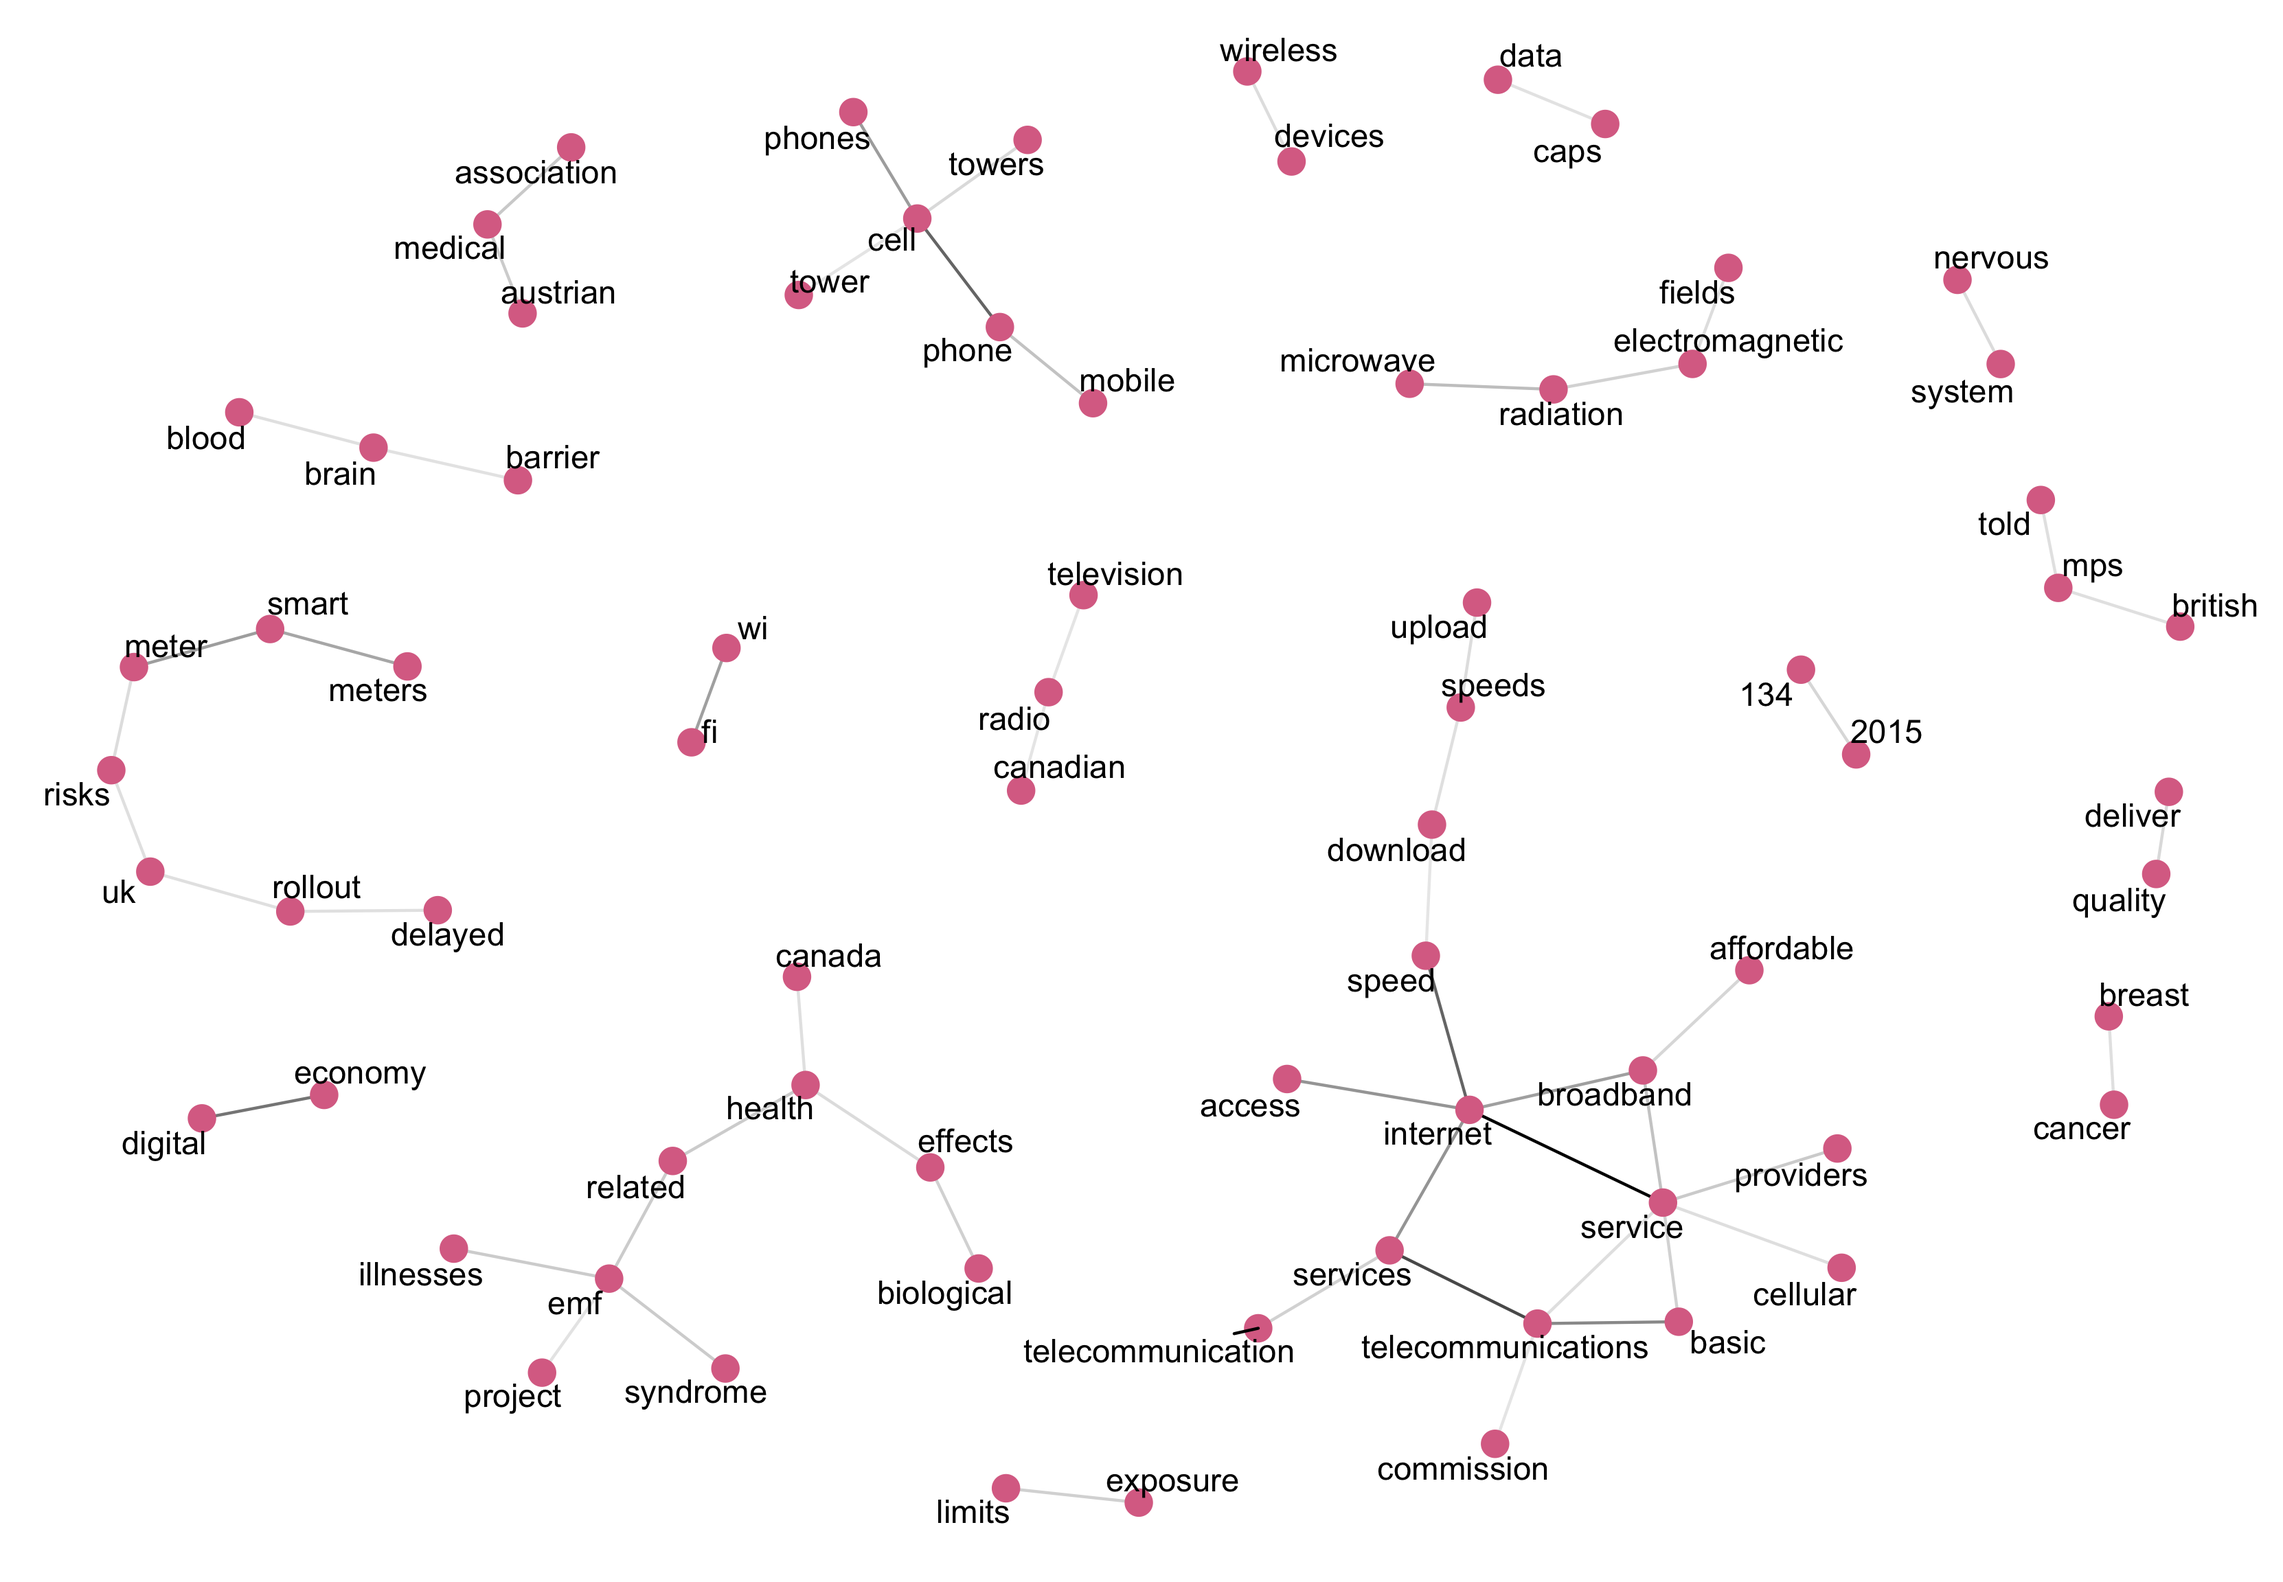
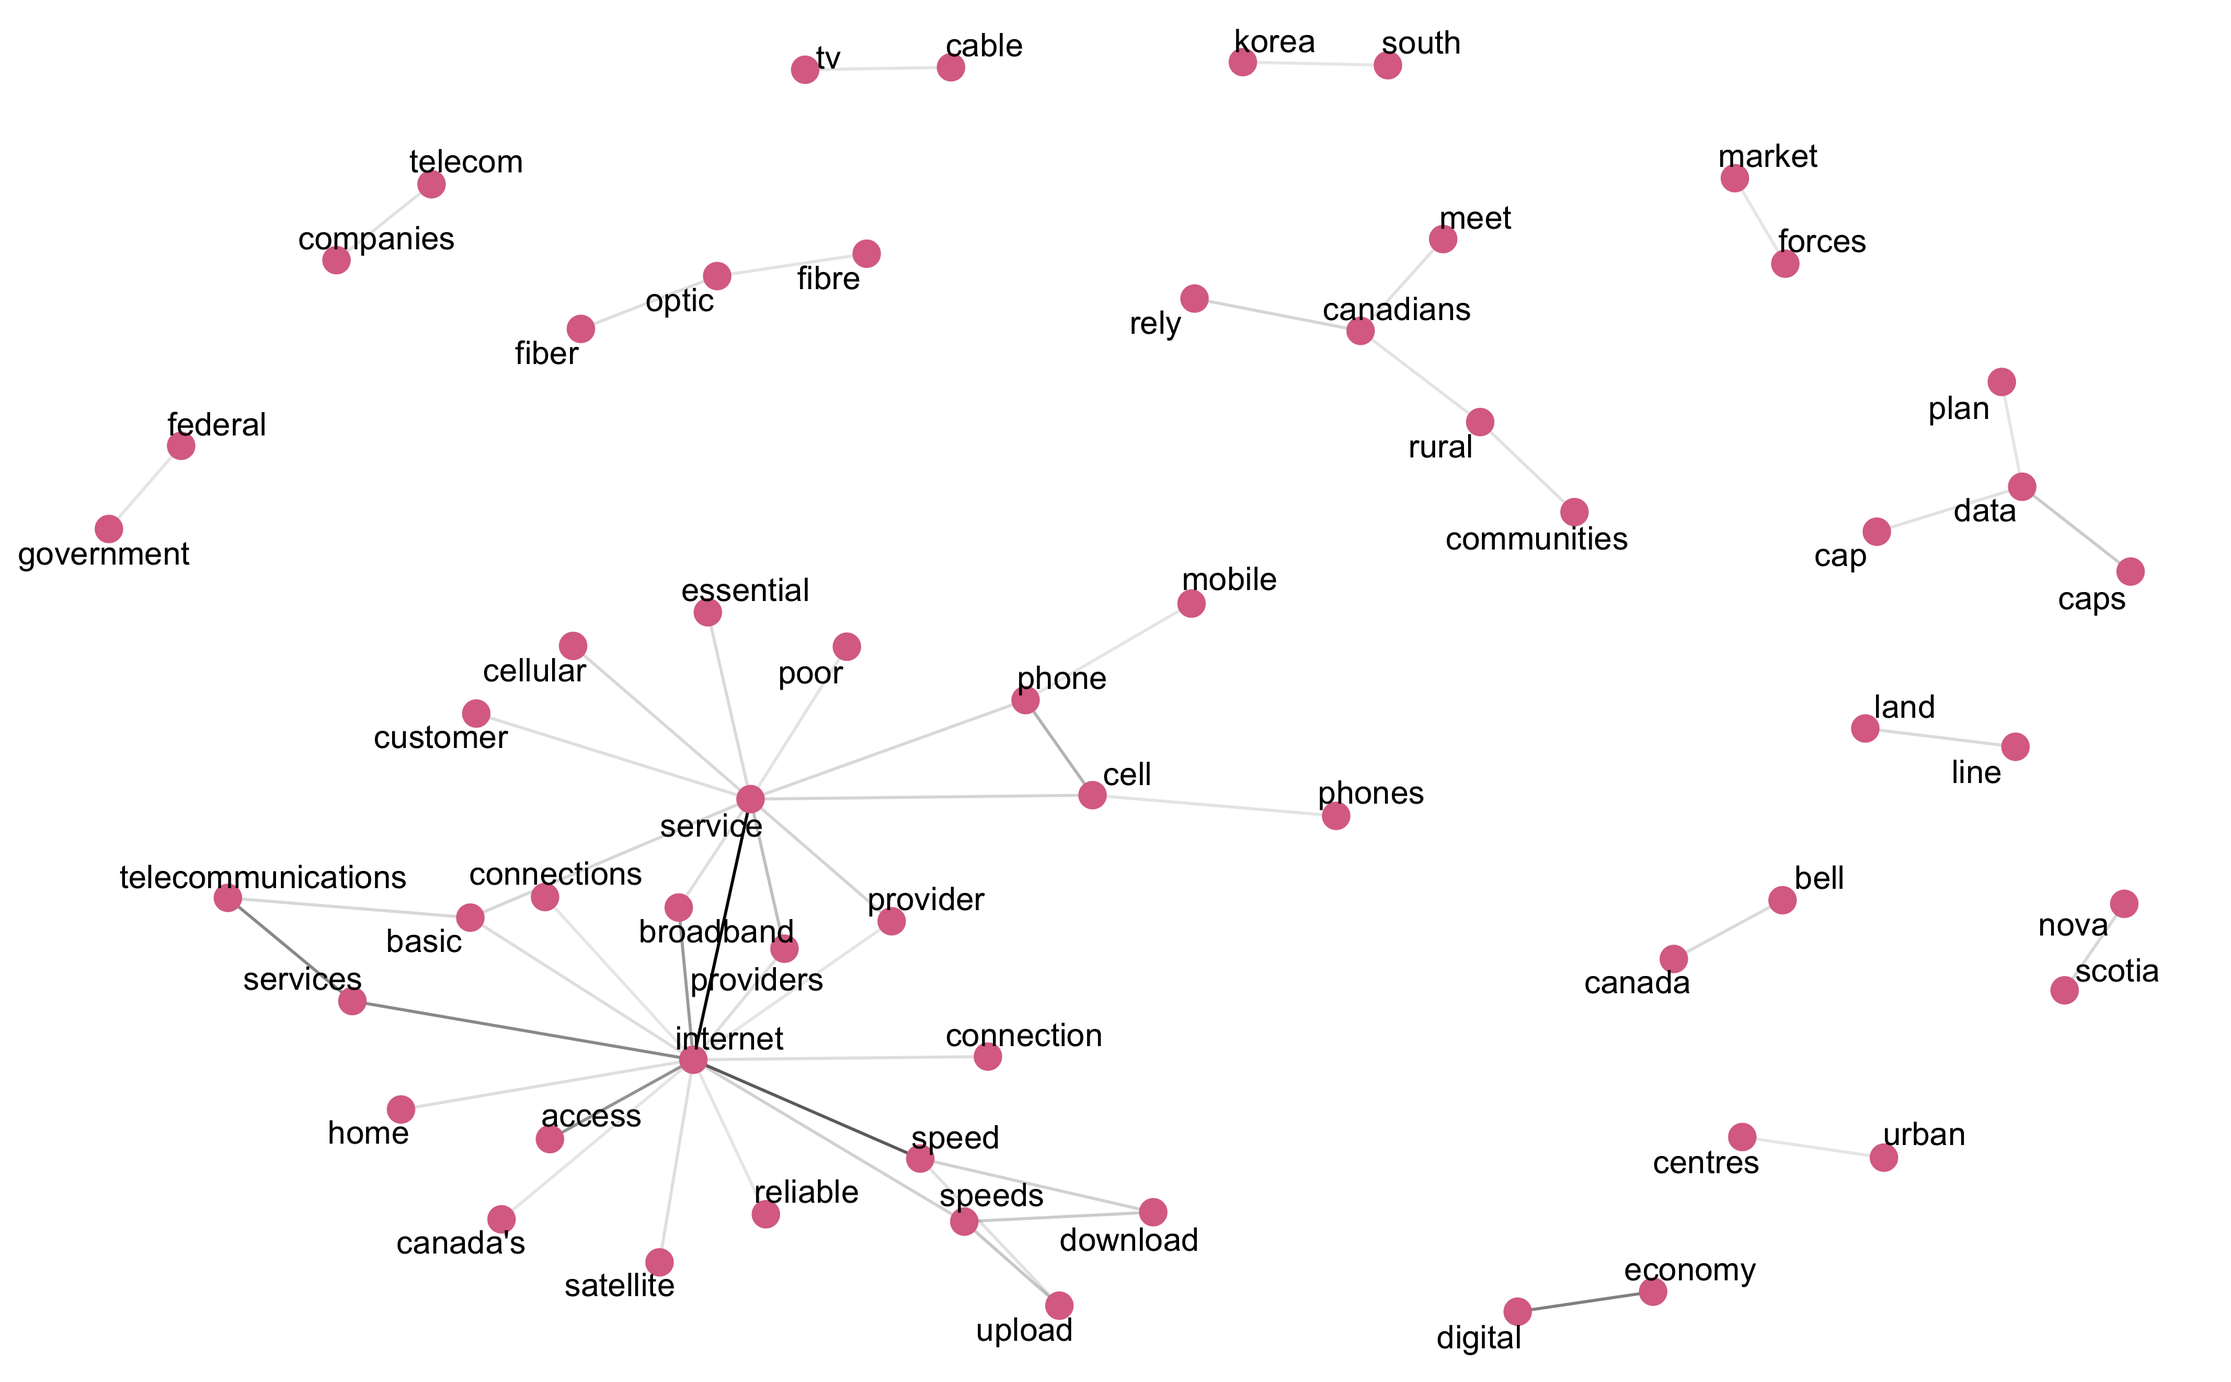
modified individual submissions markdown to leave only html comments

diff --git a/notebooks/IndividualSubmissions.md b/notebooks/IndividualSubmissions.md
@@ -86,11 +86,11 @@ Time to set the record straight. In April 2016, a historic CRTC hearing will sha
  *Reasonable, and I can afford it. Too high, but I can afford it.* | 1
  *Too high, but I can afford it. Extremely high; I can barely afford it. Extremely high; I can't afford it, but because I need it I take money out of my budget for other items* |  1
 
-### Interventions Phase2
-- *619 Submissions*
-  - *409 Submissions in English*
-  - *93 Submissions in French*  (used google translate API to translate them)
-  - *117 Empty submissions*
+### Html submissions for Interventions Phase2
+- *529 Submissions*
+  - *378 Submissions in English*
+  - *88 Submissions in French*  (used google translate API to translate them)
+  - *63 Empty submissions*
 
 
 ### Comparing individual submissions language
@@ -100,7 +100,7 @@ Time to set the record straight. In April 2016, a historic CRTC hearing will sha
   - Why is online access important to you?
   - Please share how your life would change if you could easily afford home high-speed Internet.
   - Please share anything else relevant.
-- 502 Interventions Phase2 submissions.
+- 466 Phase2 html submissions.
 
 
 ##### Top 10 most frequent words
@@ -108,16 +108,16 @@ Time to set the record straight. In April 2016, a historic CRTC hearing will sha
 
 OM | ACORN | Phase2
 --- | --- | ---
- internet  5.4% | internet   4.5% | internet 1.5%
- world  1.9% | access    2.2% | access 0.6%
- access  1.9% | afford 1.3% | speed 0.5%
- telecom   1.2% | money    1.2% | broadband 0.45%
- companies   1.1% | online    1% | health 0.4%
- pay   1% | information  1% | rural 0.4%
- prices   0.9% | family  0.9% | cell 0.4%
- broadband   0.9% | life    0.9% | exposure 0.4%
- speed   0.9% | home    0.8% | crtc 0.4%
- affordable   0.9% | food 0.8% | radiation 0.37%
+ internet  5.4% | internet   4.5% | internet 3%
+ world  1.9% | access    2.2% | speed 1%
+ access  1.9% | afford 1.3% | access 1%
+ telecom   1.2% | money    1.2% | rural 0.8%
+ companies   1.1% | online    1% | data  0.6%
+ pay   1% | information  1% | broadband 0.56%
+ prices   0.9% | family  0.9% | bell 0.55%
+ broadband   0.9% | life    0.9% | pay 0.55%
+ speed   0.9% | home    0.8% | speeds 0.5%
+ affordable   0.9% | food 0.8% | crtc 0.5%
 
 - Similarities:
   - ACORN, OM, Phase2 discuss internet access.
@@ -126,22 +126,22 @@ OM | ACORN | Phase2
 - Differences:
   - OM discussing more big  telecom companies.
   - ACORN - more often mentions family, life, home.
-  - Phase2 submissions discuss rural access as well as health and radiation.
+  - Phase2 submissions discuss rural access.
 
 ##### Bigrams
 
 OM | ACORN | Phase2
 --- | --- | ---
-telecom companies   1.6%  | speed   internet    1.5% | internet    service 0.4%
-internet  services   1.4% | internet  access   1.4% | telecommunications           services 0.3%
-internet    access   1.2% | online access    1.3% | cell              phone 0.27%
-internet   service   1.1% | low    income     0.8% | speed           internet 0.27%
-world     class   0.8%    | stay connected     0.5% |  digital            economy 0.25%
-25      mbps   0.7%     | affordable internet     0.5% | basic telecommunications 0.2%
-community    access   0.6% | cell   phone     0.5% | internet             access 0.2%
-3      mbps   0.6%         | internet service     0.3% | internet           services 0.19%
-profit providers   0.6%    | afford internet     0.3% | cell             phones 0.3%
-industrialized     world   0.6% | internet services      0.3% | smart              meter 0.2%
+telecom companies   1.6%  | speed   internet    1.5% | internet   service 1.14%
+internet  services   1.4% | internet  access   1.4% | speed  internet 0.67%
+internet    access   1.2% | online access    1.3% | digital   economy 0.55%
+internet   service   1.1% | low    income     0.8% | telecommunications  services 0.51%
+world     class   0.8%    | stay connected     0.5% |  internet  services 0.50%
+25      mbps   0.7%     | affordable internet     0.5% |internet    access 0.46%
+community    access   0.6% | cell   phone     0.5% | broadband  internet 0.43%
+3      mbps   0.6%         | internet service     0.3% | cell     phone 0.32%
+profit providers   0.6%    | afford internet     0.3% | service providers 0.25%
+industrialized     world   0.6% | internet services      0.3% | upload    speeds 0.22%
 
 Submissions from all sources discuss internet access and internet services.
 
@@ -155,22 +155,22 @@ Phase2 submissions talk about internet speed, cell phone services and digital ec
 
 OM | ACORN | Phase2
 --- | --- | ---
-community         access       programs   1.7% | low    income  families 0.7% | basic telecommunications    services 0.3%
-3           mbps         upload   1.6% | affordable internet    access     0.4% | austrian            medical association 0.2%
-25           mbps       download   1.5% | easily   afford      home     0.4% | emf            related      health 0.2%
-municipalities      community         access   1.4% |speed internet    access 0.4% | illnesses                emf    syndrome 0.2%
- world          class      broadband   1.4% | cell    phone   service     0.3% | smart              meter       risks 0.15%
- affordable          world          class   1.4% | cell    phone   services     0.3% | british                mps        told 0.14%
-sell      broadband       services   1.4% | easily   afford groceries 0.3% |   meter              risks          uk 0.14%
-incumbent           isps municipalities   1.3% | jobs     jobs      jobs     0.3% | risks                 uk     rollout 0.15%  
-isps municipalities      community  1.3% | low   income    people    0.3% | uk            rollout     delayed 0.15%
-class      broadband       internet   1.1% | university  student    living     0.3% | blood              brain     barrier 0.14%
+community         access       programs   1.7% | low    income  families 0.7% | broadband           internet   service 0.43%
+3           mbps         upload   1.6% | affordable internet    access     0.4% | basic telecommunications  services 0.31%
+25           mbps       download   1.5% | easily   afford      home     0.4% | speed           internet   service 0.27%
+municipalities      community         access   1.4% |speed internet    access 0.4% | internet            service providers 0.21%
+ world          class      broadband   1.4% | cell    phone   service     0.3% | broadband           internet  services 0.18%
+ affordable          world          class   1.4% | cell    phone   services     0.3% | broadband           internet    access 0.16%
+sell      broadband       services   1.4% | easily   afford groceries 0.3% |   speed           internet    access 0.16%
+incumbent           isps municipalities   1.3% | jobs     jobs      jobs     0.3% | rural               nova    scotia 0.14%  
+isps municipalities      community  1.3% | low   income    people    0.3% | canada's           internet   economy 0.12%
+class      broadband       internet   1.1% | university  student    living     0.3% | considered          essential   service 0.12%
 
 Affordable world class broadband internet, 3 mbps upload and  25 mbps download  speeds are discussed mostly in OM submissions.
 
 ACORN members talk about low income families and people, university students living, importance of affordable internet access.
 
-Phase2 submissions talk about  basic telecommunication services as well as EMF related health issues.
+Phase2 submissions talk about internet service providers, canada's internet economy and internet speed.
 
 
 ##### Bigrams visualization
@@ -202,11 +202,12 @@ Narratives:
 ![bigrams3](images/2gram_html.png)
 
 Narratives:
-- health-related-emf-syndrome, breast-cancer, nervous-system, microvave-radiation
-- affordable-broadband-service
-- cell-phone
-- canadian radio/television
-- upload/download speeds
+- internet essential/poor/basic service
+- internet access reliable/satellite
+- rural communities
+- data caps
+- cell phone service
+- internet upload/download speeds
 
 
 ##### Topic modeling
@@ -238,11 +239,11 @@ ACORN submissions topics:
 ![topics3](images/topicsHTML.png)
 
 Phase2 submissions topics:
-1. internet speed/access and phone in rural areas.
-2. health issues - radiation effects.
-3. crtc, internet as a basic telecommunication service.
-4. wireless devices - health issues.
-5. radiation exposure effects.
+1. internet prices/ competitions.
+2. internet access in rural areas - bell, telus.
+3. crtc, telecommunications.
+4. telecommunications/ digital economy.
+5. download speed in rural areas/ pay.
 
 ##### Most common positive/negative words
 
@@ -276,8 +277,8 @@ helps-fun-nice-happy-healthy
 Most common negative word is pay.
 
 Narrative:
-- negative: pay-poor-limited, risk-cancer-illness-fatigue
-- positive: support, help, safety
+- negative: pay-poor-limited-lack-costly-charged,bad-worse-barrier.
+- positive: support,lucky improve, free.
 
 
 ##### Most negative/positive comments
@@ -302,9 +303,9 @@ Narrative:
 
 " The basic service should include the medium speed internet service in my opinion and cover the whole territory. The customers benefit, the telecommunication companies benefit, the banks benefit, the merchants benefit, the health services, the Government the cities benefit and so on. The costs must therefore be borne by all those who benefit if we want a fair and equitable service.Mario Girard"
 
-`Angry Phase2 (nrc score)`
+`Negative Phase2`
 
-"Wireless Technology The Worst Threat to our Health Personal Privacy Democracy and National Security in Canada’s Entire History Jerry Flynn’s BIO Retired Canadian Armed Forces Captain.... <truncated>"
+""I wish to comment on the regulation of broadband internet services in Canada, particularly the additional charges when customers go over their data usage caps. I am currently with an internet service provider whose best plan, which I have, costs $62.97 per month, and offers me 125GB of data traffic per month (downloading and uploading). If I use additional data, I am charged $3.00 per additional Gigabyte. That means that if I used an additional 125GB, I would be charged an additional $375.00. There is an alternative, which I have looked into, which is to have a second phone line installed, and set up an additional internet connection, to get another 125GB at $62.97. It seems absurd that in the one circumstance, I am paying $375.00 for an additional 125GB, while in the other, I am only paying an $62.97 for an additional 125GB. Why the company wants to put me through this is beyond comprehension. They will be supplying me with an additional modem (at their expense - it comes with th... <truncated>"
 
 ### Conclusion
 OpenMedia and ACORN and Phase2 submissions discuss the importance  of affordable  internet access and talk about internet speeds.
@@ -313,4 +314,4 @@ OpenMedia submissions talk more about about large  telecom companies, real compe
 
 ACORN submissions touch low-income families issues, discuss internet as  necessity for work and  everyday life.
 
-Phase2 submissions discuss internet and phone access in rural areas. Phase2 submissions quite often mention health issues related to radiation exposure and electromagnetic  hypersensitivity.
+Phase2 html submissions discuss internet and phone access in rural areas, talk about land line and cell phone, mention data caps.
